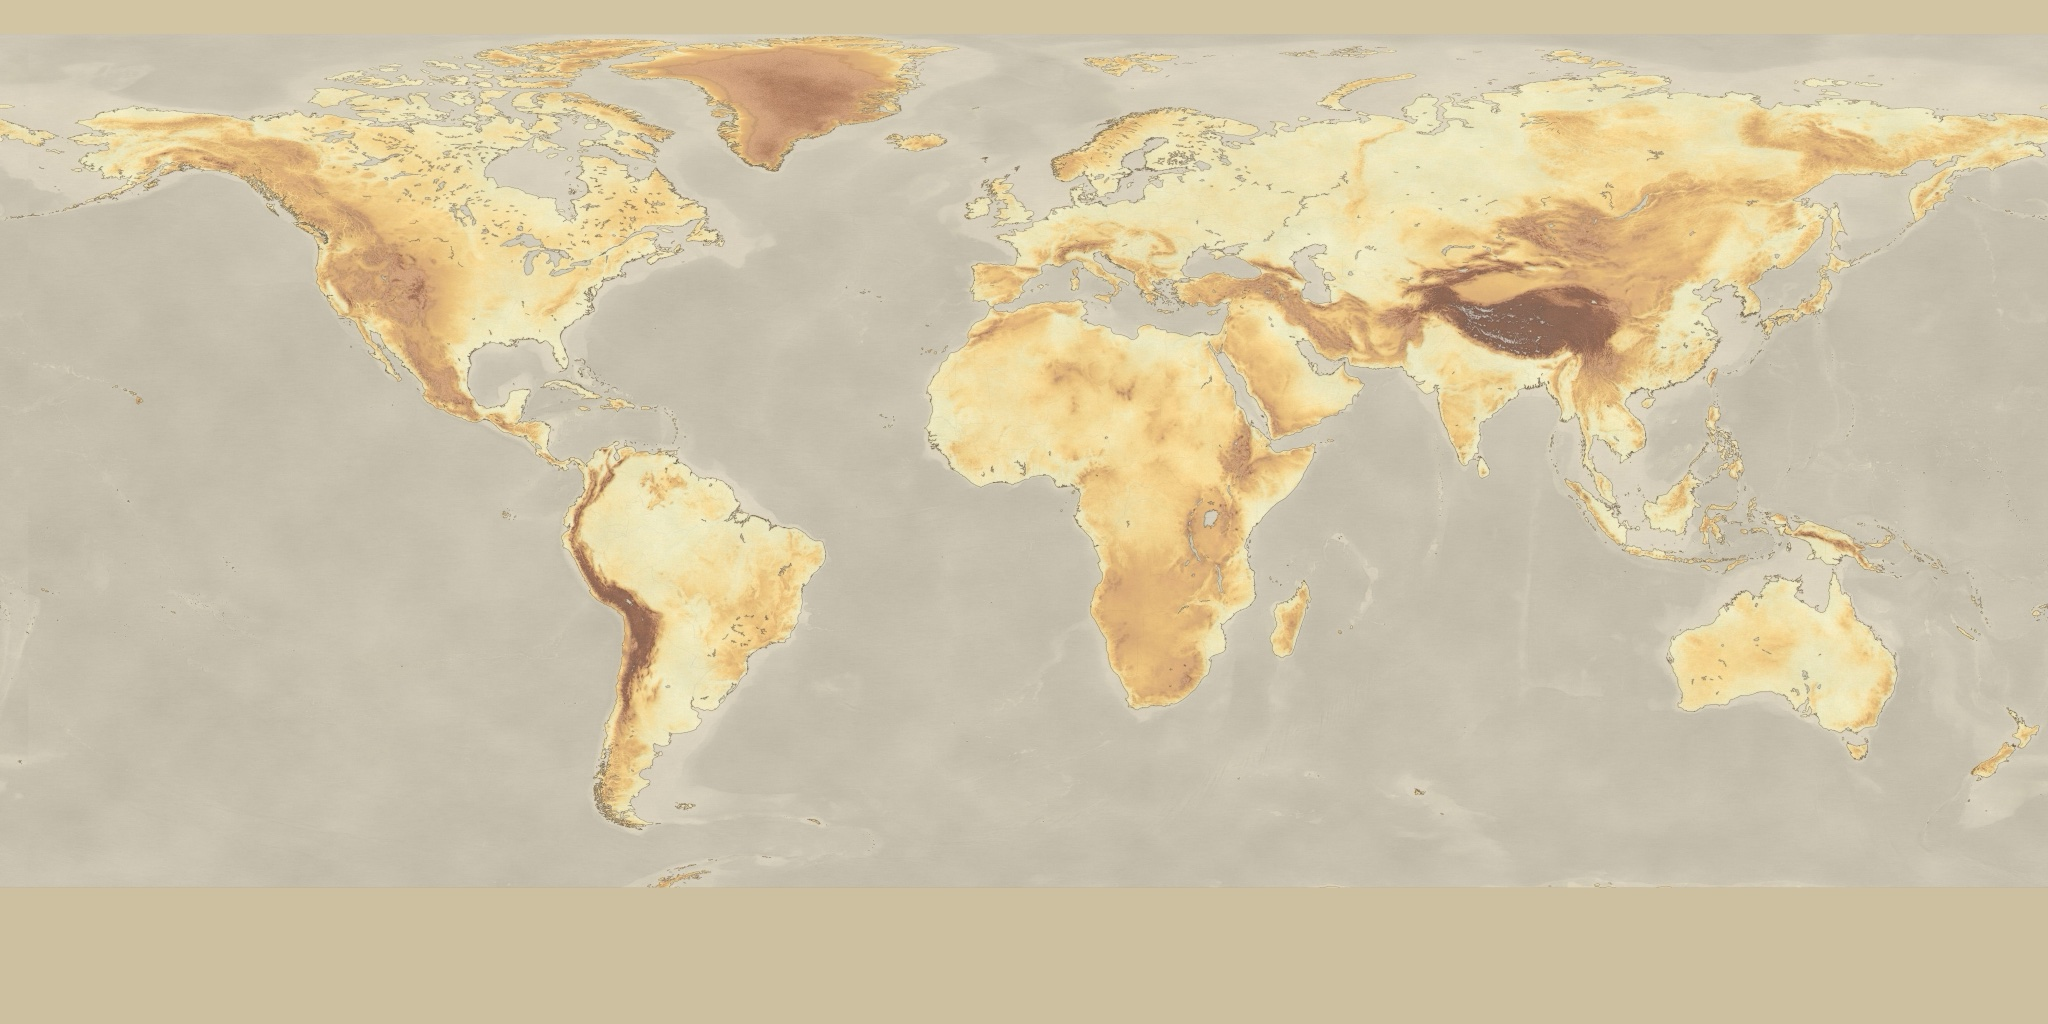
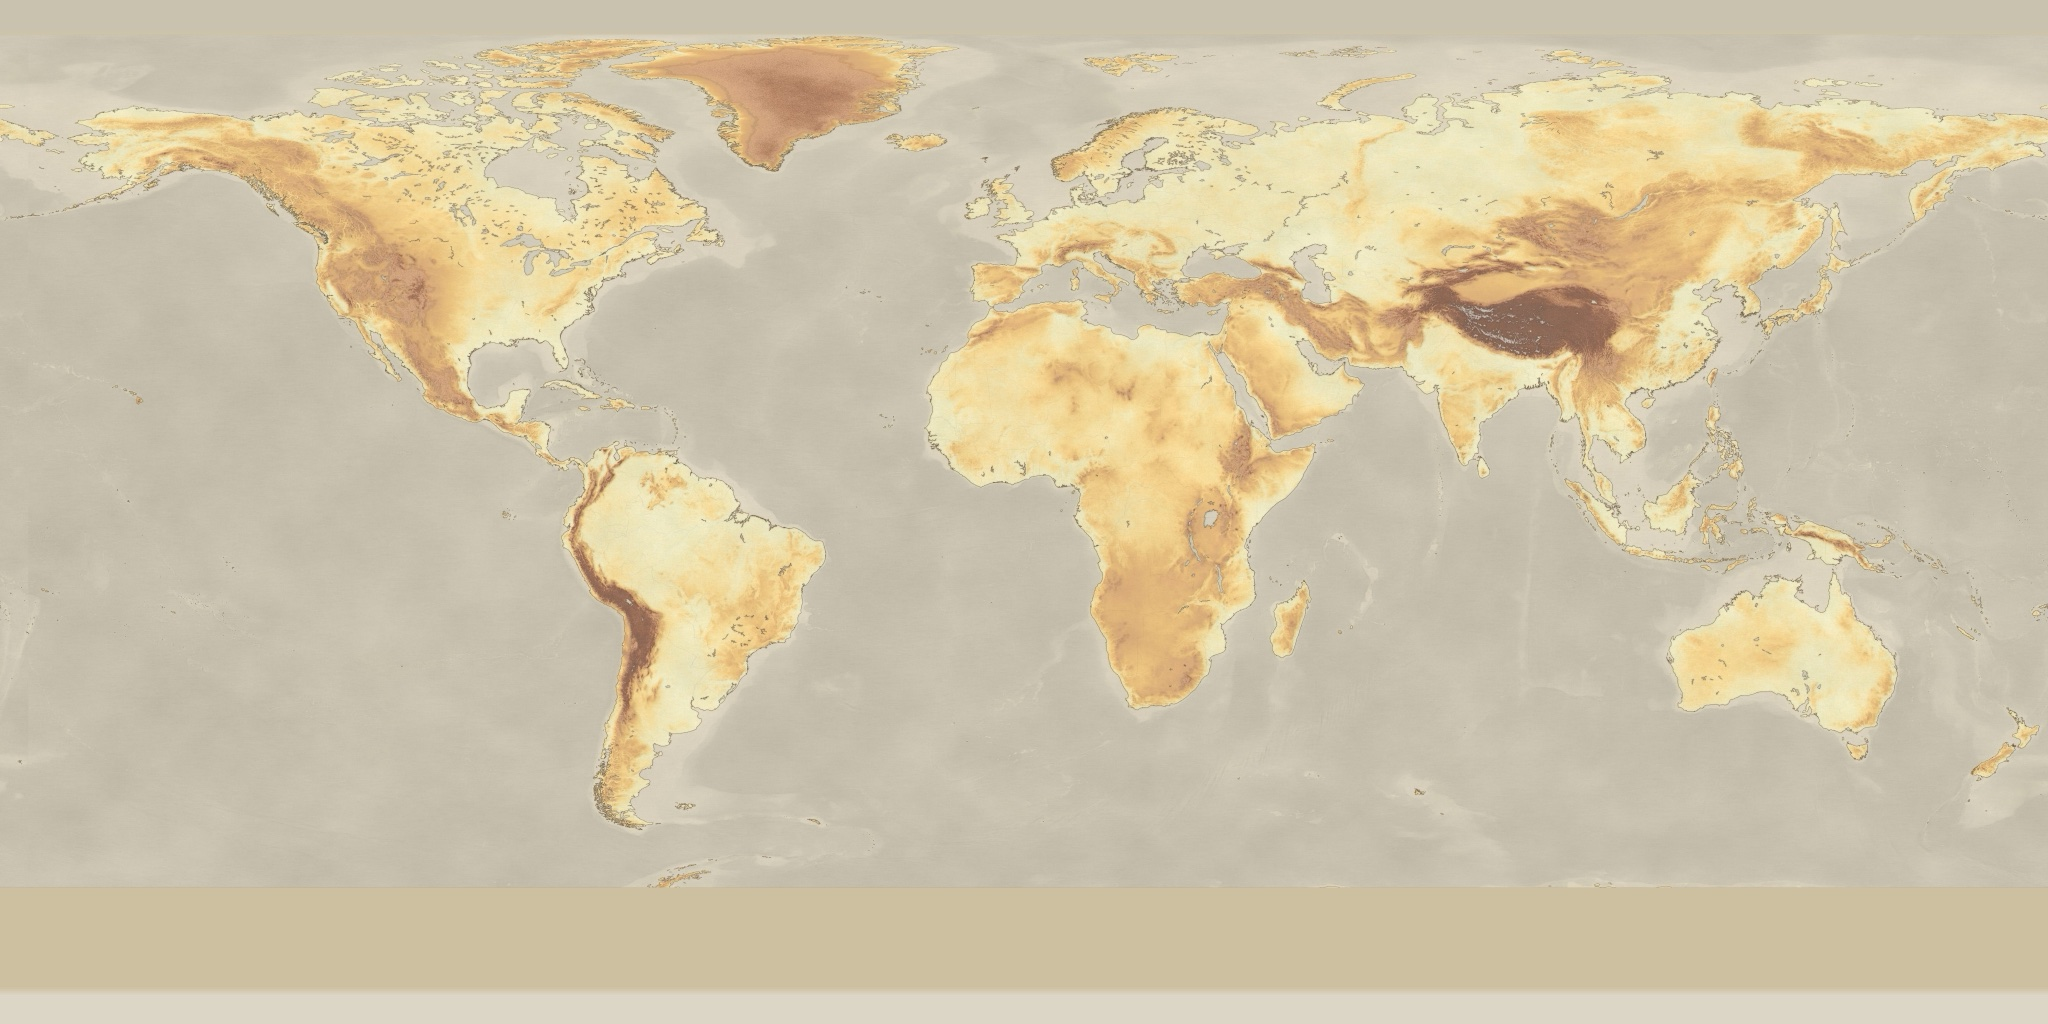
Laitekäännös: Personal Team F72JLS57C5, automaattinen allekirjoitus; napakannet pohjakerrokseen

Changed region(s): [[0.0, 0.9688, 1.0, 1.0]]

diff --git a/tyokalut/napakannet.swift b/tyokalut/napakannet.swift
@@ -1,0 +1,42 @@
+// Tekee pallon pohjakerroksen: pelin tasakulmainen z4-pallotekstuuri pienennettynä,
+// ja navat (|lat| > raja) täytettynä verkkopelin napakansien sävyillä
+// (js/pallo.js NAPAKANSI_POHJOINEN #c9c2af, NAPAKANSI_ETELA #dcd6c6). Kansi liukuu
+// kuvaan häiveellä, joten Mercator-laattojen rajalle (85°) ei jää reunaa.
+//
+// Käyttö: swift napakannet.swift <lähde.jpg> <kohde.jpg> [leveys=2048]
+import CoreGraphics
+import Foundation
+import ImageIO
+import UniformTypeIdentifiers
+
+let a = CommandLine.arguments
+guard a.count >= 3 else { print("käyttö: napakannet.swift <lähde> <kohde> [leveys]"); exit(1) }
+let leveys = a.count > 3 ? Int(a[3])! : 2048
+let korkeus = leveys / 2
+let raja = 83.5, haive = 1.5   // kansi alkaa 83,5°:sta ja on täysi 85°:ssa
+
+let lahde = CGImageSourceCreateWithURL(URL(fileURLWithPath: a[1]) as CFURL, nil)!
+let kuva = CGImageSourceCreateImageAtIndex(lahde, 0, nil)!
+let tila = CGColorSpaceCreateDeviceRGB()
+let ctx = CGContext(data: nil, width: leveys, height: korkeus, bitsPerComponent: 8, bytesPerRow: leveys * 4,
+                    space: tila, bitmapInfo: CGImageAlphaInfo.noneSkipLast.rawValue)!
+ctx.interpolationQuality = .high
+ctx.draw(kuva, in: CGRect(x: 0, y: 0, width: leveys, height: korkeus))
+let p = ctx.data!.bindMemory(to: UInt8.self, capacity: leveys * korkeus * 4)
+
+let pohjoinen: [Double] = [0xc9, 0xc2, 0xaf], etela: [Double] = [0xdc, 0xd6, 0xc6]
+for y in 0..<korkeus {
+    // Rivi 0 on kuvan yläreuna = 90° N.
+    let lat = 90.0 - (Double(y) + 0.5) * 180.0 / Double(korkeus)
+    let t = min(1.0, max(0.0, (abs(lat) - raja) / haive))
+    if t <= 0 { continue }
+    let v = lat > 0 ? pohjoinen : etela
+    for x in 0..<leveys {
+        let i = (y * leveys + x) * 4
+        for c in 0..<3 { p[i + c] = UInt8((Double(p[i + c]) * (1 - t) + v[c] * t).rounded()) }
+    }
+}
+let ulos = CGImageDestinationCreateWithURL(URL(fileURLWithPath: a[2]) as CFURL, UTType.jpeg.identifier as CFString, 1, nil)!
+CGImageDestinationAddImage(ulos, ctx.makeImage()!, [kCGImageDestinationLossyCompressionQuality: 0.85] as CFDictionary)
+CGImageDestinationFinalize(ulos)
+print("napakannet: \(leveys)×\(korkeus) → \(a[2])")

diff --git a/Assets/Matkakirja/Editor/Rakennus.cs b/Assets/Matkakirja/Editor/Rakennus.cs
@@ -116,6 +116,9 @@ namespace Matkakirja.Editori
             PlayerSettings.iOS.sdkVersion = sdk;
             PlayerSettings.iOS.simulatorSdkArchitecture = AppleMobileArchitectureSimulator.ARM64;
             PlayerSettings.iOS.targetOSVersionString = "17.0";
+            // Omistajan Personal Team (ilmainen provisiointi, 7 päivää).
+            PlayerSettings.iOS.appleDeveloperTeamID = "F72JLS57C5";
+            PlayerSettings.iOS.appleEnableAutomaticSigning = true;
             PlayerSettings.defaultInterfaceOrientation = UIOrientation.AutoRotation;
         }
 
@@ -147,11 +150,11 @@ namespace Matkakirja.Editori
             Kaanna("Build/iOS-sim");
         }
 
-        /// <summary>Xcode-projekti laitteelle: Build/iOS-laite.</summary>
+        /// <summary>Xcode-projekti laitteelle: Build/laite.</summary>
         public static void IosLaite()
         {
             AsetaIos(iOSSdkVersion.DeviceSDK);
-            Kaanna("Build/iOS-laite");
+            Kaanna("Build/laite");
         }
     }
 }
